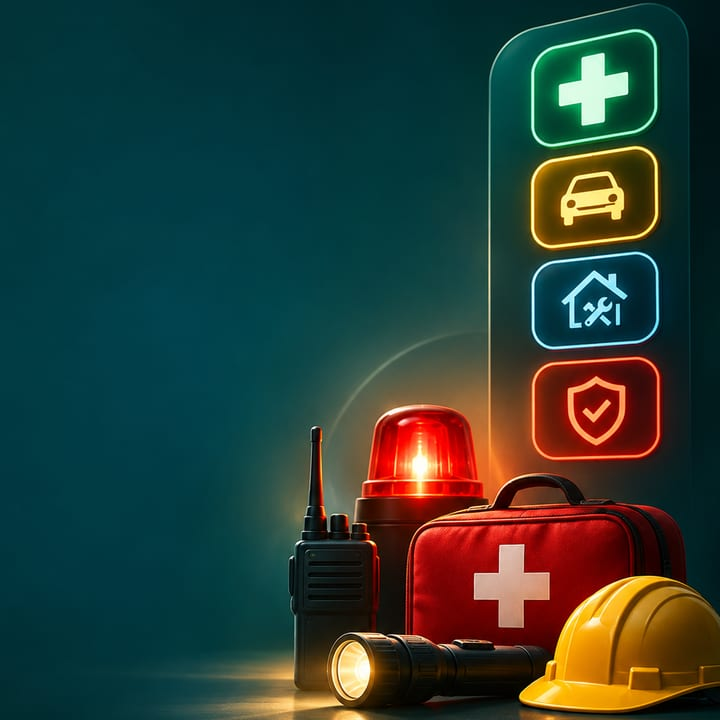
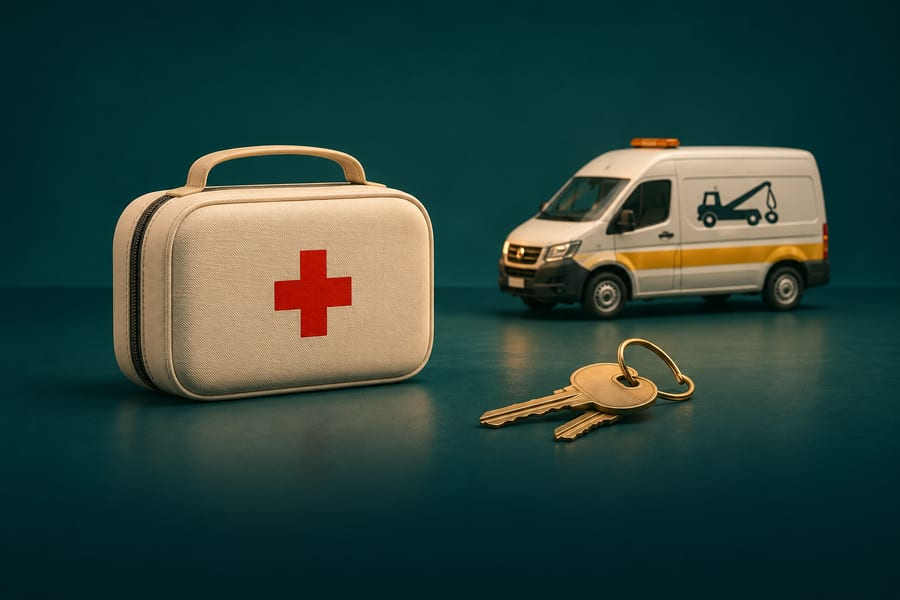
Ana sayfa: Seyahat, Sosyal Harmoni ve Acil İhtiyaçlar kartlarına Eren'in yeni resimleri

diff --git a/apps/mobile/src/app/home.tsx b/apps/mobile/src/app/home.tsx
@@ -120,7 +120,7 @@ export default function HomeScreen() {
               onPress={m.href ? () => router.push(m.href!) : undefined}
               style={({ pressed }) => [styles.module, { borderColor: sceneRim(m.scene), opacity: pressed ? 0.88 : 1, transform: [{ scale: pressed ? 0.98 : 1 }] }]}>
               {/* Eren'in resimleri: Seyahat ve Acil'de konu sağ yarıda (8 Kasım); Şehrim ve Sosyal kare, ortalı (10 Kasım). */}
-              <Image source={HOME_ART[m.key]} style={StyleSheet.absoluteFill} contentFit="cover" contentPosition={m.key === 'myCity' || m.key === 'social' ? 'center' : 'right'} accessible={false} />
+              <Image source={HOME_ART[m.key]} style={StyleSheet.absoluteFill} contentFit="cover" contentPosition={m.key === 'travel' ? 'right' : 'center'} accessible={false} />
               <View style={styles.moduleIcon}>
                 <MaterialIcons name={m.icon} size={19} color="#FFFFFF" />
               </View>

diff --git a/apps/mobile/src/lib/app-art.ts b/apps/mobile/src/lib/app-art.ts
@@ -3,7 +3,7 @@
  * CityJoy-gorseller klasöründe, tarifler docs/gorsel-listesi.md). Her ilde aynıdır. Panel > Uygulama görselleri
  * (Blaze ile) gelince giriş resimleri oradan değiştirilebilecek; bunlar varsayılan olarak kalır.
  */
-/** Şehrim (ada) ve Sosyal (park) kartları 10 Kasım 2026'da Eren'in yeni resimleriyle değişti (kaynak ana-sayfa-yeni). */
+/** Şehrim (ada) 10 Kasım, Seyahat (bavul), Sosyal (park masası) ve Acil (ilk yardım çantası) 12 Kasım 2026'da Eren'in yeni resimleriyle değişti (kaynak ana-sayfa-yeni). */
 export const HOME_ART = {
   myCity: require('../../assets/home/sehrim.jpg') as number,
   travel: require('../../assets/home/seyahat.jpg') as number,
